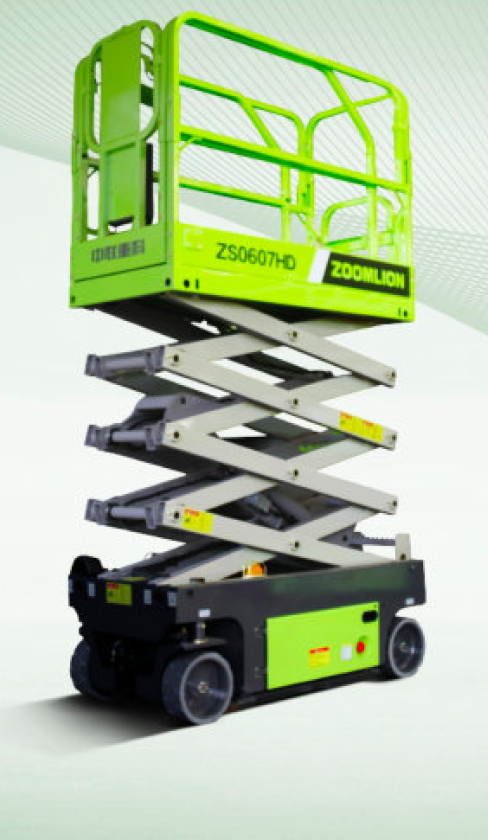
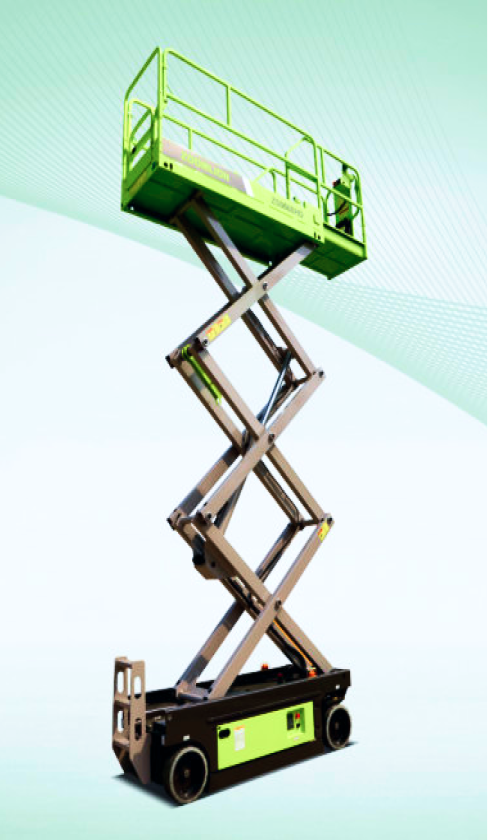
third slide

diff --git a/css/common.css b/css/common.css
@@ -382,4 +382,136 @@ h1.title {
   padding-bottom: 120px;
   background: #FBFBFB;
 }
+
+.third_slide .images {
+  display: -webkit-box;
+  display: -ms-flexbox;
+  display: flex;
+}
+
+.third_slide .right_images {
+  display: -webkit-box;
+  display: -ms-flexbox;
+  display: flex;
+  -webkit-box-orient: vertical;
+  -webkit-box-direction: normal;
+      -ms-flex-direction: column;
+          flex-direction: column;
+  margin-left: auto;
+}
+
+.third_slide .left_images {
+  display: -webkit-box;
+  display: -ms-flexbox;
+  display: flex;
+  -webkit-box-orient: vertical;
+  -webkit-box-direction: normal;
+      -ms-flex-direction: column;
+          flex-direction: column;
+}
+
+.third_slide .double_images {
+  display: -webkit-box;
+  display: -ms-flexbox;
+  display: flex;
+  -webkit-box-pack: justify;
+      -ms-flex-pack: justify;
+          justify-content: space-between;
+}
+
+.third_slide .third_slide-image {
+  display: inline-block;
+  position: relative;
+  background-size: 100%;
+  cursor: pointer;
+  -webkit-user-select: none;
+     -moz-user-select: none;
+      -ms-user-select: none;
+          user-select: none;
+}
+
+.third_slide .third_slide-image.img1 {
+  width: 490px;
+  height: 840px;
+  background: url(/images/catalog/1.png) no-repeat;
+}
+
+.third_slide .third_slide-image.img2 {
+  width: 690px;
+  height: 410px;
+  margin-left: 20px;
+  background: url(/images/catalog/2.png) no-repeat;
+}
+
+.third_slide .third_slide-image.img3 {
+  width: 690px;
+  height: 410px;
+  margin-left: 20px;
+  background: url(/images/catalog/3.png) no-repeat;
+  margin-top: 20px;
+}
+
+.third_slide .third_slide-image.img4 {
+  width: 692px;
+  height: 400px;
+  background: url(/images/catalog/4.png) no-repeat;
+  margin-top: 20px;
+}
+
+.third_slide .third_slide-image.img5 {
+  width: 692px;
+  height: 460px;
+  background: url(/images/catalog/5.png) no-repeat;
+  margin-top: 20px;
+}
+
+.third_slide .third_slide-image.img6 {
+  width: 309px;
+  height: 316px;
+  background: url(/images/catalog/6.png) no-repeat;
+  margin-top: 20px;
+}
+
+.third_slide .third_slide-image.img6 span {
+  font-size: 26px;
+}
+
+.third_slide .third_slide-image.img7 {
+  width: 364px;
+  height: 316px;
+  background: url(/images/catalog/7.png) no-repeat;
+  margin-top: 20px;
+}
+
+.third_slide .third_slide-image.img7 span {
+  font-size: 26px;
+}
+
+.third_slide .third_slide-image.img8 {
+  width: 487px;
+  height: 680px;
+  background: url(/images/catalog/8.png) no-repeat;
+  margin-top: 20px;
+}
+
+.third_slide .third_slide-image.img9 {
+  width: 487px;
+  height: 516px;
+  background: url(/images/catalog/9.png) no-repeat;
+  margin-top: 20px;
+}
+
+.third_slide .third_slide-image span {
+  position: absolute;
+  width: 100%;
+  height: 80px;
+  background: rgba(0, 0, 0, 0.5);
+  text-align: center;
+  text-transform: uppercase;
+  color: white;
+  font-size: 28px;
+  line-height: 80px;
+  top: calc(100% - 80px);
+  font-weight: bold;
+}
 /*# sourceMappingURL=common.css.map */

diff --git a/css/common.scss b/css/common.scss
@@ -286,4 +286,100 @@ h1.title {
     padding-top: 120px;
     padding-bottom: 120px;
     background: #FBFBFB;
+    .images {
+        display: flex;
+    }
+    .right_images {
+        display: flex;
+        flex-direction: column;
+        margin-left: auto;
+    }
+    .left_images {
+        display: flex;
+        flex-direction: column;
+    }
+    .double_images {
+        display: flex;
+        justify-content: space-between;
+    }
+    .third_slide-image {
+        display: inline-block;
+        position: relative;
+        background-size: 100%;
+        cursor: pointer;
+        user-select: none;
+        &.img1 {
+            width: 490px;
+            height: 840px;
+            background: url(/images/catalog/1.png) no-repeat;
+        }
+        &.img2 {
+            width: 690px;
+            height: 410px;
+            margin-left: 20px;
+            background: url(/images/catalog/2.png) no-repeat;
+        }
+        &.img3 {
+            width: 690px;
+            height: 410px;
+            margin-left: 20px;
+            background: url(/images/catalog/3.png) no-repeat;
+            margin-top: 20px;
+        }
+        &.img4 {
+            width: 692px;
+            height: 400px;
+            background: url(/images/catalog/4.png) no-repeat;
+            margin-top: 20px;
+        }
+        &.img5 {
+            width: 692px;
+            height: 460px;
+            background: url(/images/catalog/5.png) no-repeat;
+            margin-top: 20px;
+        }
+        &.img6 {
+            width: 309px;
+            height: 316px;
+            background: url(/images/catalog/6.png) no-repeat;
+            margin-top: 20px;
+            span {
+                font-size: 26px;
+            }
+        }
+        &.img7 {
+            width: 364px;
+            height: 316px;
+            background: url(/images/catalog/7.png) no-repeat;
+            margin-top: 20px;
+            span {
+                font-size: 26px;
+            }
+        }
+        &.img8 {
+            width: 487px;
+            height: 680px;
+            background: url(/images/catalog/8.png) no-repeat;
+            margin-top: 20px;
+        }
+        &.img9 {
+            width: 487px;
+            height: 516px;
+            background: url(/images/catalog/9.png) no-repeat;
+            margin-top: 20px;
+        }
+        span {
+            position: absolute;
+            width: 100%;
+            height: 80px;
+            background: rgba(0, 0, 0, .5);
+            text-align: center;
+            text-transform: uppercase;
+            color: white;
+            font-size: 28px;
+            line-height: 80px;
+            top: calc(100% - 80px);
+            font-weight: bold;
+        }
+    }
 }

diff --git a/index.php b/index.php
@@ -86,6 +86,47 @@
     <div class="third_slide">
         <div class="container">
             <h1 class="title">Каталог продукции</h1>
+            <div class="images">
+                <div class="left_images">
+                    <div class="third_slide-image img1">
+                        <span>Ножничные подъемники</span>
+                    </div>
+                </div>
+                <div class="right_images">
+                    <div class="third_slide-image img2">
+                        <span>Автокраны zoomlion</span>
+                    </div>
+                    <div class="third_slide-image img3">
+                        <span>Экскаваторы</span>
+                    </div>
+                </div>
+            </div>
+            <div class="images">
+                <div class="left_images">
+                    <div class="third_slide-image img4">
+                        <span>Автокраны Zoomlion-МАЗ</span>
+                    </div>
+                    <div class="third_slide-image img5">
+                        <span>погрузчик для палет</span>
+                    </div>
+                    <div class="double_images">
+                        <div class="third_slide-image img6">
+                            <span>Электроштабелеры</span>
+                        </div>
+                        <div class="third_slide-image img7">
+                            <span>Вилочные погрузчики</span>
+                        </div>
+                    </div>
+                </div>
+                <div class="right_images">
+                    <div class="third_slide-image img8">
+                        <span>коленчатые подъемники</span>
+                    </div>
+                    <div class="third_slide-image img9">
+                        <span>телескопические подъемники</span>
+                    </div>
+                </div>
+            </div>
         </div>
     </div>
 
